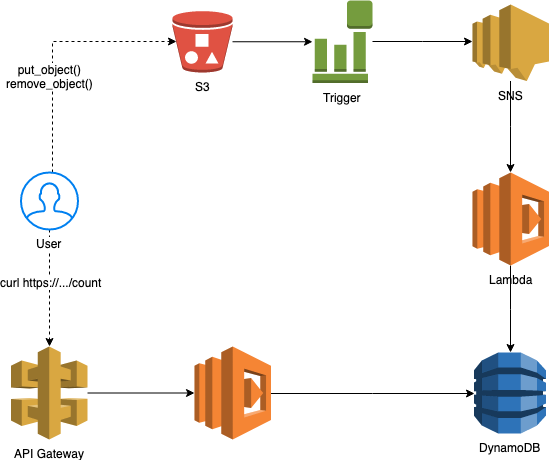
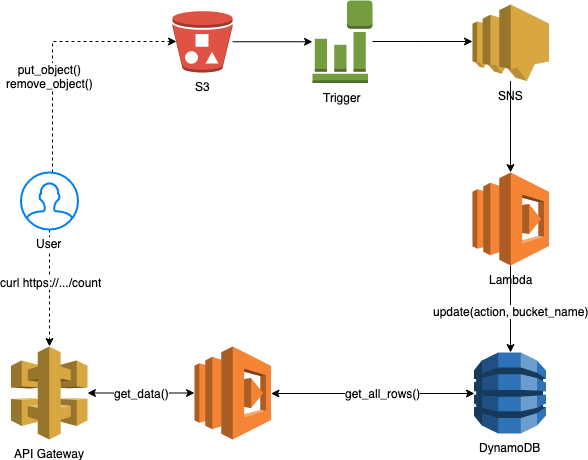
Update comments

diff --git a/serverless/lib/custom_apigateway.py b/serverless/lib/custom_apigateway.py
@@ -14,18 +14,15 @@ import typing
 from aws_cdk.core import IAspect, IConstruct
 import jsii
 
-# CDK Constructor to create a custom implementation of a Bucket.
-# The behavior is the same as s3.Bucket except that buckets with numbers are forbidden.
-class custom_apigateway(aws_apigateway.RestApi):
+# Defines an API Gateway with a specific resource to get the information from a DynamoDB database.
+# The lambda code is in 'serverless/lambdas/lambda_get_count.py'
+class CustomAPIGateway(aws_apigateway.RestApi):
     def __init__(self, scope: core.Construct, id: str, *, cloud_watch_role: typing.Optional[bool]=None, deploy: typing.Optional[bool]=None, deploy_options: typing.Optional["StageOptions"]=None, description: typing.Optional[str]=None, endpoint_types: typing.Optional[typing.List["EndpointType"]]=None, fail_on_warnings: typing.Optional[bool]=None, parameters: typing.Optional[typing.Mapping[str,str]]=None, policy: typing.Optional[aws_iam.PolicyDocument]=None, rest_api_name: typing.Optional[str]=None, default_integration: typing.Optional["Integration"]=None, default_method_options: typing.Optional["MethodOptions"]=None, table_name: str) -> None:
         super().__init__(scope = scope, id=id, cloud_watch_role = cloud_watch_role, deploy = deploy, deploy_options=deploy_options, description=description, endpoint_types=endpoint_types, fail_on_warnings=fail_on_warnings, parameters=parameters, policy=policy, rest_api_name=rest_api_name, default_integration=default_integration, default_method_options=default_method_options)
         
         # Define lambdas to be integrated in API
         lambda_get_count = aws_lambda.Function(self, 'lambda_get_count', code = aws_lambda.InlineCode(open('serverless/lambdas/lambda_get_count.py', encoding="utf-8").read()), handler= 'index.handler', timeout = core.Duration.seconds(30), runtime = aws_lambda.Runtime.PYTHON_3_7, environment = {'TABLENAME':table_name})
         lambda_get_count.add_to_role_policy(aws_iam.PolicyStatement(actions=['dynamodb:*'], effect = aws_iam.Effect.ALLOW, resources=['*']))
-
-        lambda2 = aws_lambda.Function(self, 'lambda2', code = aws_lambda.InlineCode(open('serverless/lambdas/lambda2.py', encoding="utf-8").read()), handler= 'index.handler', timeout = core.Duration.seconds(30), runtime = aws_lambda.Runtime.PYTHON_3_7, environment = {'TABLENAME':table_name})
-        lambda2.add_to_role_policy(aws_iam.PolicyStatement(actions=['dynamodb:*'], effect = aws_iam.Effect.ALLOW, resources=['*']))
 
         # Common API Gateway options
         integration_responses = [
@@ -52,28 +49,8 @@ class custom_apigateway(aws_apigateway.RestApi):
             "application/json": "{\"statusCode\": 200}"
         }
 
-        # API Gateway Resource 1
+        # API Gateway Resource
         get_count = self.root.add_resource('count')
         integration_get_count = aws_apigateway.LambdaIntegration(lambda_get_count, proxy=False, integration_responses=integration_responses, passthrough_behavior=aws_apigateway.PassthroughBehavior.NEVER, request_templates=request_templates)
         get_count.add_method('GET', integration_get_count, method_responses=method_responses)
         
-        # request_templates2={
-        #     "application/json": "{\"filename\": $util.escapeJavaScript($input.params('filename'))"
-        # }
-        # # API GAteway Resource 2
-        # res2 = self.root.add_resource('file')
-        # integration_res2 = aws_apigateway.LambdaIntegration(lambda2, proxy=False, integration_responses=integration_responses, passthrough_behavior=aws_apigateway.PassthroughBehavior.NEVER, request_templates=request_templates2, request_parameters = {"integration.request.querystring.filename" : "method.request.querystring.filename"})
-        # res2.add_method('DELETE', integration_res2, method_responses=method_responses)
-
-        self.node.apply_aspect(api_gateway_restrictions(type(self)))
-
-
-# CDK Aspect for API Gateway Restrictions
-@jsii.implements(IAspect)
-class api_gateway_restrictions():
-    def __init__(self, type):
-        self._type = type
-    def visit(self, node: IConstruct) -> None:
-        if self._type is aws_apigateway.RestApi or self._type is custom_apigateway:
-            return
-            # TODO

diff --git a/serverless/serverless_stack.py b/serverless/serverless_stack.py
@@ -4,11 +4,11 @@ __version__ = '1.0'
 __date__ = 'September 2019'
 
 from aws_cdk import core
-from lib.custom_s3 import custom_s3
-from lib.custom_apigateway import custom_apigateway
-from lib.custom_dynamodb import custom_dynamodb
-from lib.custom_sns import custom_sns
-from lib.custom_lambda_snstarget import custom_lambda_snstarget
+from lib.custom_s3 import CustomS3
+from lib.custom_apigateway import CustomAPIGateway
+from lib.custom_dynamodb import CustomDynamoDB
+from lib.custom_sns import CustomSNS
+from lib.custom_lambda_snstarget import CustomLambdaSNStarget
 
 ## This is a class to retrieve parameter values from configuration file
 class Parameters:
@@ -20,13 +20,13 @@ class Parameters:
         return params
 
 
-## This is the main class when generating the CloudFormation templates
+## This is the main class used to generate the CloudFormation templates
 class ServerlessStack(core.Stack):
 
     def __init__(self, scope: core.Construct, id: str, **kwargs) -> None:
         super().__init__(scope, id, **kwargs)
 
-        # Get parameters
+        # Get parameters to build the objects
         parameters = Parameters.get_parameters()
         prefix = parameters['Prefix']
         bucket_name = prefix + parameters['BucketName']
@@ -35,10 +35,14 @@ class ServerlessStack(core.Stack):
         topic_name = prefix + parameters['SNSTopicName']
         lambda_snstarget_name = prefix + 'snstarget'
 
-        # Create S3 bucket
-        sns = custom_sns(self, topic_name = topic_name, display_name = topic_name)
-        dbtable = custom_dynamodb(stack=self, table_name=table_name, partition_key='bucket', sort_key='object')
-        lambda_snstarget = custom_lambda_snstarget(self, lambda_name = lambda_snstarget_name, source_topic = sns, table_name = table_name)
-        bucket = custom_s3(self, id=bucket_name, target_topic=sns, bucket_name=bucket_name, versioned=True)
-        apigateway = custom_apigateway(self, id=apigateway_name, table_name = table_name)
+        # Create a DynamoDB table
+        CustomDynamoDB(stack=self, table_name=table_name, partition_key='bucket', sort_key='object')
+        # Create a SNS topic
+        sns = CustomSNS(self, topic_name = topic_name, display_name = topic_name)
+        # Create a S3 bucket and set the topic as event target
+        CustomS3(self, id=bucket_name, target_topic=sns, bucket_name=bucket_name, versioned=True)
+        # Create a Lambda which is triggered with the SNS topic
+        CustomLambdaSNStarget(self, lambda_name = lambda_snstarget_name, source_topic = sns, table_name = table_name)
+        # Create an API Gateway to get the status of the DynamoDB
+        CustomAPIGateway(self, id=apigateway_name, table_name = table_name)
         

diff --git a/serverless/lib/custom_s3.py b/serverless/lib/custom_s3.py
@@ -16,8 +16,9 @@ from aws_cdk.core import IAspect, IConstruct
 import jsii
 
 # CDK Constructor to create a custom implementation of a Bucket.
-# The behavior is the same as s3.Bucket except that buckets with numbers are forbidden.
-class custom_s3(s3.Bucket):
+# The behavior is similar to s3.Bucket except that buckets with numbers are forbidden.
+# Additionally, we have enabled CORS rules and attached a target topic in case it is specified
+class CustomS3(s3.Bucket):
 
   def __init__(self, scope: core.Construct, id: str, *, target_topic: aws_sns.Topic, access_control: typing.Optional["BucketAccessControl"]=None, block_public_access: typing.Optional["BlockPublicAccess"]=None, bucket_name: typing.Optional[str]=None, cors: typing.Optional[typing.List["CorsRule"]]=None, encryption: typing.Optional["BucketEncryption"]=None, encryption_key: typing.Optional[aws_kms.IKey]=None, lifecycle_rules: typing.Optional[typing.List["LifecycleRule"]]=None, metrics: typing.Optional[typing.List["BucketMetrics"]]=None, public_read_access: typing.Optional[bool]=None, removal_policy: typing.Optional[core.RemovalPolicy]=None, versioned: typing.Optional[bool]=None, website_error_document: typing.Optional[str]=None, website_index_document: typing.Optional[str]=None, website_redirect: typing.Optional["RedirectTarget"]=None, website_routing_rules: typing.Optional[typing.List["RoutingRule"]]=None) -> None:
     super().__init__(scope = scope, id = id, access_control = access_control, block_public_access=block_public_access, bucket_name=bucket_name, cors=cors, encryption=encryption, encryption_key= encryption_key, lifecycle_rules=lifecycle_rules, metrics=metrics, public_read_access=public_read_access, removal_policy=removal_policy, versioned=versioned, website_error_document=website_error_document, website_redirect=website_redirect, website_routing_rules=website_routing_rules)
@@ -32,14 +33,14 @@ class custom_s3(s3.Bucket):
     self.add_cors_rule(allowed_methods=[s3.HttpMethods.GET], allowed_origins=['*'])
 
 
-# CDK Aspect to forbids buckets with numbers
+# CDK Aspect to forbid buckets with numbers
 @jsii.implements(IAspect)
 class forbid_bucket_with_numbers():
     def __init__(self, bucket_name, type):
         self._bucket_name = bucket_name
         self._type = type
     def visit(self, node: IConstruct) -> None:
-        if self._type is s3.Bucket or self._type is custom_s3:
+        if self._type is s3.Bucket or self._type is CustomS3:
             has_number = any(char.isdigit() for char in self._bucket_name)
             if has_number:
                 raise ValueError("Invalid Bucket Name <" +self._bucket_name + "> (it should not contain numbers)")

diff --git a/serverless/lib/custom_lambda_snstarget.py b/serverless/lib/custom_lambda_snstarget.py
@@ -10,7 +10,9 @@ from aws_cdk import aws_lambda
 from aws_cdk import aws_lambda_event_sources
 from aws_cdk import core
 
-class custom_lambda_snstarget(aws_lambda.Function):
+# Lambda function that works as a target to a SNS topic with a specific purpose (access to DynamoDB to update it)
+# The behavior of the lambda is implemented in 'serverless/lambdas/lambda_snstarget.py' file
+class CustomLambdaSNStarget(aws_lambda.Function):
     def __init__(self, scope: core.Construct, lambda_name: str, source_topic: aws_sns.Topic = None, table_name : str = 'S3Table'):
         
         super().__init__(scope = scope, id=lambda_name, code = aws_lambda.InlineCode(open('serverless/lambdas/lambda_snstarget.py', encoding="utf-8").read()), handler= 'index.handler', timeout = core.Duration.seconds(30), runtime = aws_lambda.Runtime.PYTHON_3_7, environment = {'TABLENAME':table_name})

diff --git a/setup.py b/setup.py
@@ -1,6 +1,7 @@
 import setuptools
 
-
+# This file has been generated with the command 'cdk init'
+# However, it has been slightly adapted 
 with open("README.md") as fp:
     long_description = fp.read()
 
@@ -25,20 +26,12 @@ setuptools.setup(
 
     classifiers=[
         "Development Status :: 4 - Beta",
-
         "Intended Audience :: Developers",
-
         "License :: OSI Approved :: Apache Software License",
-
-        "Programming Language :: JavaScript",
-        "Programming Language :: Python :: 3 :: Only",
-        "Programming Language :: Python :: 3.6",
         "Programming Language :: Python :: 3.7",
         "Programming Language :: Python :: 3.8",
-
         "Topic :: Software Development :: Code Generators",
         "Topic :: Utilities",
-
         "Typing :: Typed",
     ],
 )

diff --git a/serverless/lib/custom_dynamodb.py b/serverless/lib/custom_dynamodb.py
@@ -10,11 +10,10 @@ from aws_cdk import core
 import typing
 
 import typing
-# from aws_cdk.core import IAspect, IConstruct
-# import jsii
 
-# This class does not inherit from the CDK library DynamoDB. Instead, it calls the constructor with the right parameters
-class custom_dynamodb:
+# This class does not inherit from the CDK library DynamoDB. 
+# Instead, it calls the constructor with the right parameters
+class CustomDynamoDB:
     def __init__(self, stack: core.Stack, table_name: str, partition_key: str, sort_key=None):
         items_table = aws_dynamodb.Table(
             stack, 

diff --git a/serverless/lib/custom_sns.py b/serverless/lib/custom_sns.py
@@ -10,7 +10,8 @@ from aws_cdk import aws_iam
 
 import typing
 
-class custom_sns(aws_sns.Topic):
+# Define a topic with a defined specific policy
+class CustomSNS(aws_sns.Topic):
     def __init__(self, scope: core.Construct, display_name: str, topic_name: str):
         super().__init__(scope=scope, id=topic_name, display_name = display_name, topic_name = topic_name)
 

diff --git a/app.py b/app.py
@@ -8,6 +8,7 @@ __date__ = 'September 2019'
 from aws_cdk import core
 from serverless.serverless_stack import ServerlessStack
 
+# This is the main application
 if __name__ == "__main__":    
     app = core.App()
     ServerlessStack(app, "serverless")

diff --git a/README.md b/README.md
@@ -1,5 +1,3 @@
-<!-- ![alt text](http://image.png) -->
-
 # AWS CDK in Python
 This project uses the [AWS CDK](https://docs.aws.amazon.com/cdk/latest/guide/home.html) (Cloud Development Kit), an Amazon Toolkit to define IaC (Infrastructure as Code) by using some of the most common languages. AWS CDK converts the implemented code to CloudFormation (which uses an AWS syntax to describe and provision all the infrastructure resources in AWS).
 
